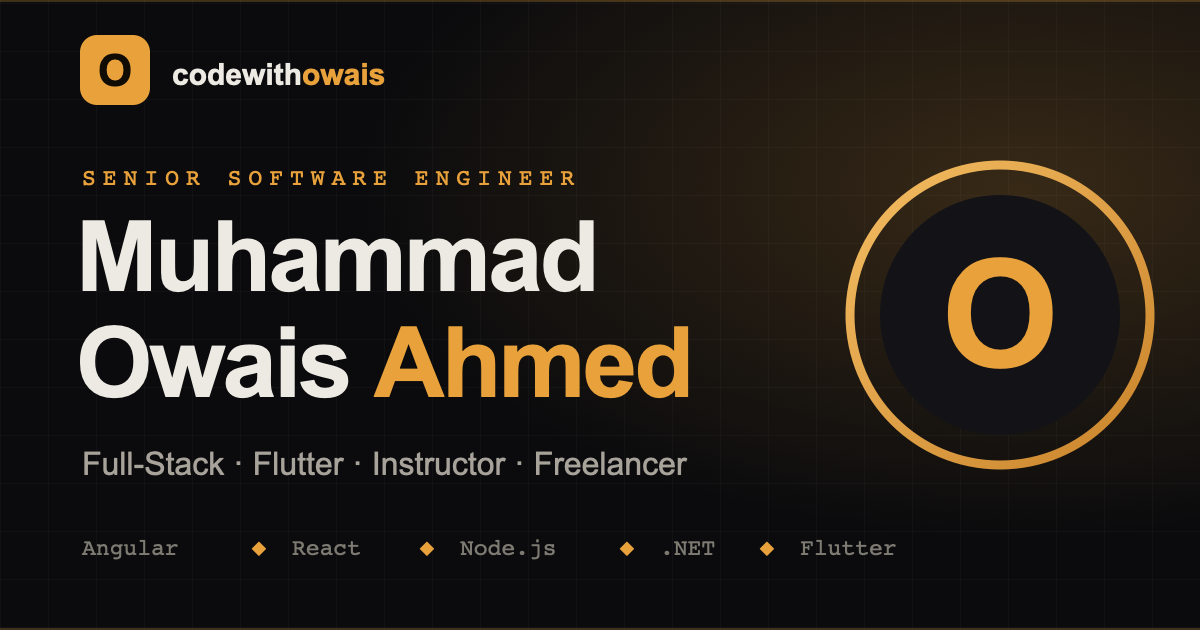
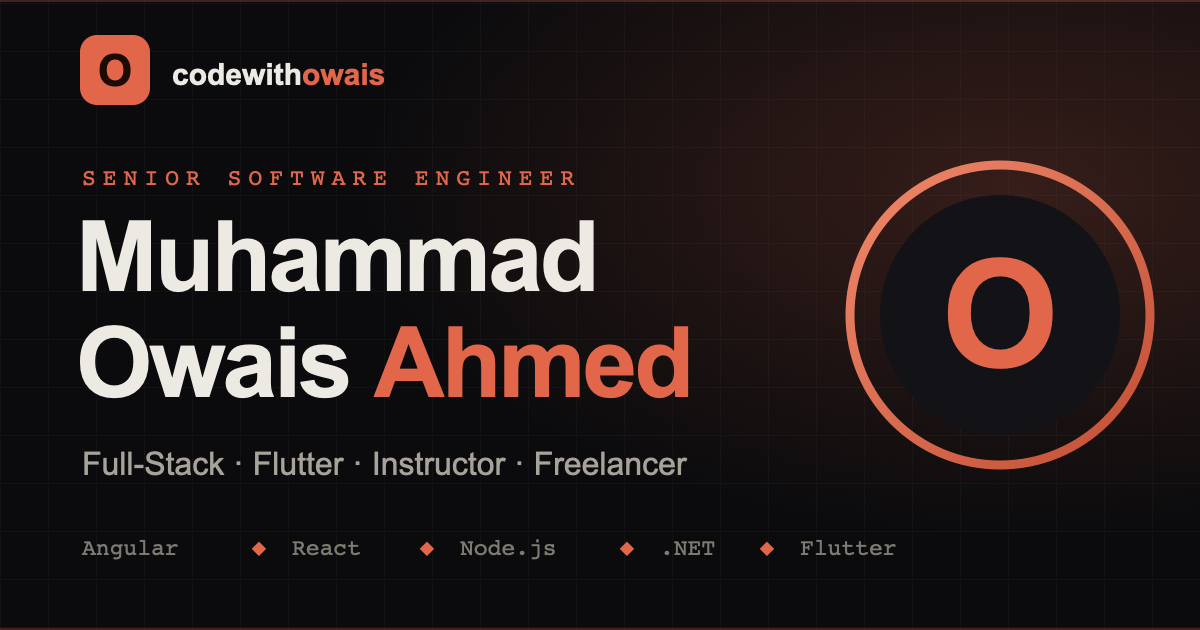
Retheme: warm terracotta/coral signature accent (replaces amber-gold)
Swaps the accent color system across dark & light themes to a warm
terracotta/coral (#e2674a dark / #c14e34 light), keeping the full modern UI,
layout, animations, and contrast tokens intact. Updates favicon and OG card.

diff --git a/assets/css/style.css b/assets/css/style.css
@@ -67,14 +67,14 @@
   --text: #edeae3;
   --text-muted: #a8a39a;
   --text-faint: #928d83;
-  --accent: #e9a23b;
-  --accent-text: #eaa645; /* accent tuned for small text on dark (>= 4.5:1) */
-  --accent-bright: #f4bd63;
-  --accent-deep: #c9832a;
-  --accent-soft: rgba(233, 162, 59, 0.13);
-  --accent-line: rgba(233, 162, 59, 0.3);
-  --accent-ink: #100b03;
-  --glow: rgba(233, 162, 59, 0.16);
+  --accent: #e2674a; /* warm terracotta / coral */
+  --accent-text: #f0896b; /* brighter coral tuned for small text on dark (>= 4.5:1) */
+  --accent-bright: #ef8266;
+  --accent-deep: #c14e34;
+  --accent-soft: rgba(226, 103, 74, 0.14);
+  --accent-line: rgba(226, 103, 74, 0.32);
+  --accent-ink: #1c0a05;
+  --glow: rgba(226, 103, 74, 0.17);
   --shadow-sm: 0 1px 2px rgba(0, 0, 0, 0.4);
   --shadow-md: 0 18px 40px -20px rgba(0, 0, 0, 0.8);
   --shadow-lg: 0 40px 80px -30px rgba(0, 0, 0, 0.85);
@@ -94,14 +94,14 @@
   --text: #201d18;
   --text-muted: #5b554b;
   --text-faint: #6d675c;
-  --accent: #b3701a;
-  --accent-text: #8a5410; /* darker accent for small text on paper (>= 4.5:1) */
-  --accent-bright: #c9832a;
-  --accent-deep: #935910;
-  --accent-soft: rgba(179, 112, 26, 0.1);
-  --accent-line: rgba(179, 112, 26, 0.32);
-  --accent-ink: #fff8ec;
-  --glow: rgba(179, 112, 26, 0.14);
+  --accent: #c14e34; /* deep terracotta for buttons/large text on paper */
+  --accent-text: #a83f28; /* darker terracotta for small text on paper (>= 4.5:1) */
+  --accent-bright: #d2693f;
+  --accent-deep: #9a3820;
+  --accent-soft: rgba(193, 78, 52, 0.1);
+  --accent-line: rgba(193, 78, 52, 0.32);
+  --accent-ink: #fff5ef;
+  --glow: rgba(193, 78, 52, 0.13);
   --shadow-sm: 0 1px 2px rgba(60, 45, 20, 0.08);
   --shadow-md: 0 18px 40px -24px rgba(60, 45, 20, 0.28);
   --shadow-lg: 0 40px 80px -34px rgba(60, 45, 20, 0.3);
@@ -1217,7 +1217,7 @@ h1, h2, h3, h4 {
     --bg: #ffffff; --bg-2: #ffffff;
     --surface: #ffffff; --surface-2: #f5f5f5;
     --text: #111111; --text-muted: #333333; --text-faint: #555555;
-    --accent: #8a5410; --accent-text: #7a4a0e;
+    --accent: #9a3820; --accent-text: #8a3018;
     --border: rgba(0,0,0,0.2); --border-strong: rgba(0,0,0,0.35);
   }
   body { background: #fff !important; color: #111 !important; }
